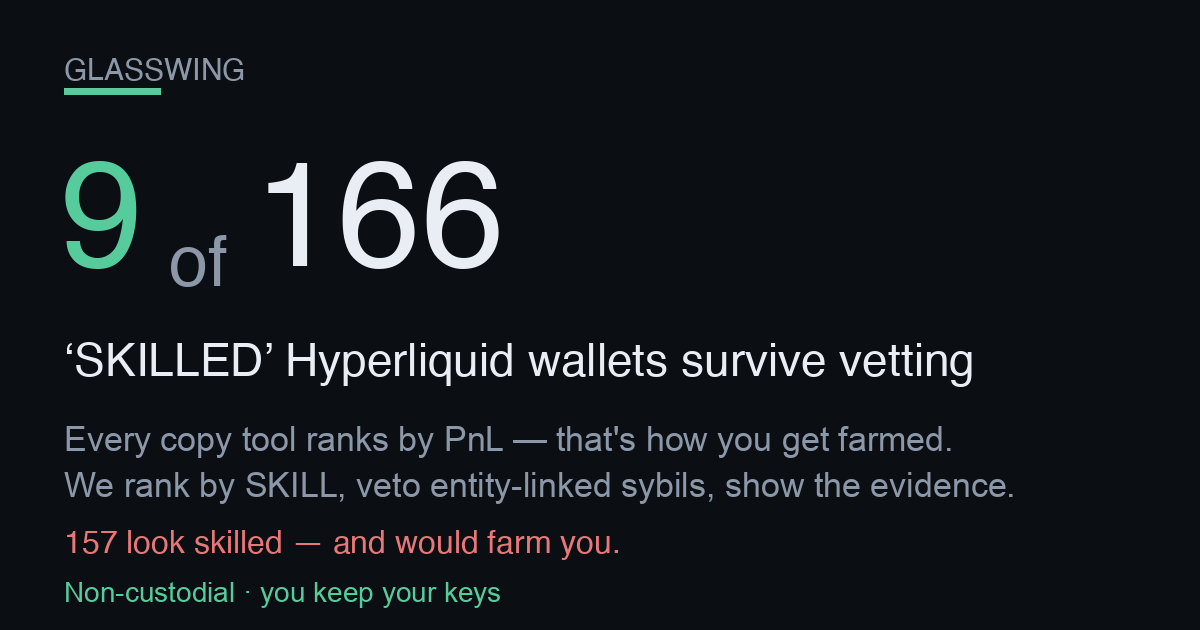
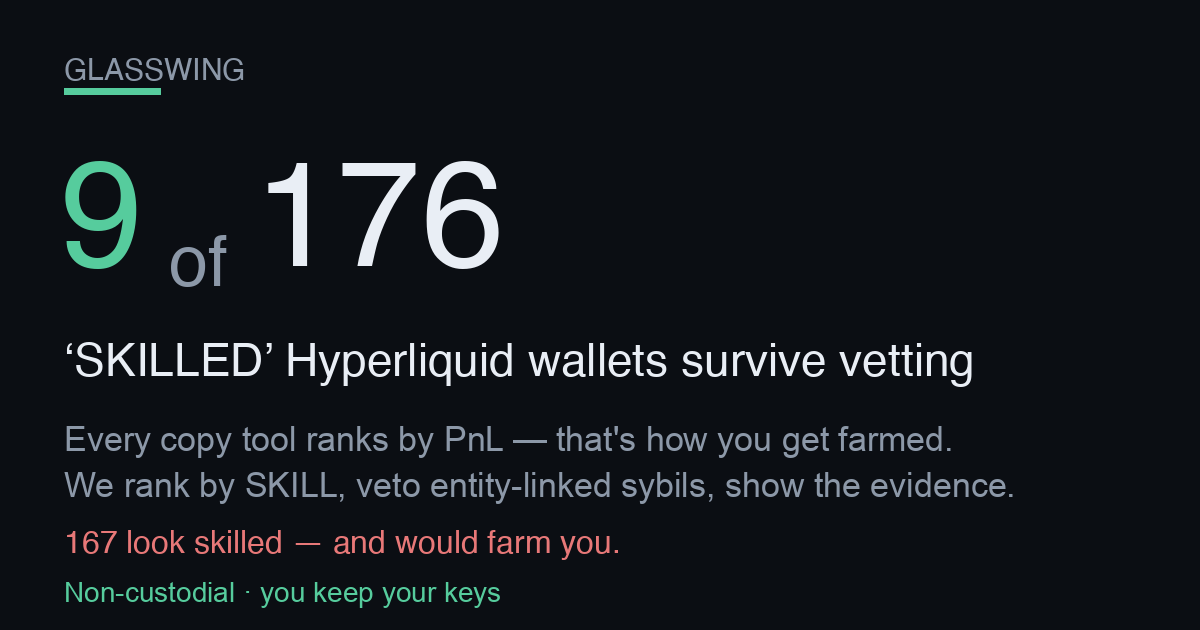
publish funnel 2026-08-07T13:32:22Z

Changed region(s): [[0.2775, 0.2413, 0.37, 0.4222], [0.0617, 0.8444, 0.0925, 0.8746]]

diff --git a/screener.html b/screener.html
@@ -57,4 +57,4 @@ padding:11px 22px;font-size:15px;font-weight:800;border:1px solid var(--good)}
 footer{margin-top:34px;color:var(--muted);font-size:12px;line-height:1.6;
 border-top:1px solid var(--line);padding-top:16px}
 footer b{color:var(--ink)}
-</style></head><body><div class="wrap"><div class="nav"><a href="./index.html">&larr; Glasswing home</a><span class="sep">|</span><span>Edge Screener</span><span class="sep">|</span><a href="./dex.html">Copy a vetted leader</a></div><div class="hero"><h1>Hyperliquid Edge Screener</h1><div class="sub">Where&rsquo;s the carry, where a maker earns, and what&rsquo;s moving on Hyperliquid &mdash; live, computed from the public API. Bookmark it. Every number below is real and timestamped.</div><div class="stamp">Data as of <b>2026-08-06T19:14:27Z</b> &middot; rendered 2026-08-06T19:14:27Z &middot; 177 perps &middot; 94 HIP-3 (xyz) markets scanned</div></div><h2>Top funding &mdash; the carry table <span class="hint">perps ranked by annualized funding. Positive = longs pay shorts (a delta-neutral short earns it).</span></h2><div class="tblwrap"><table><thead><tr><th>Coin</th><th>Funding / hr</th><th>Annualized</th><th>Who pays</th><th>Open interest</th><th>24h volume</th></tr></thead><tbody><tr><td class="coin">ACE</td><td>-0.2594%</td><td class="neg">-2272.2%</td><td><span class="tag shorts">shorts pay</span></td><td>$979K</td><td>$5.7M</td></tr><tr><td class="coin">CASHCAT</td><td>+0.0078%</td><td class="pos">+68.2%</td><td><span class="tag longs">longs pay</span></td><td>$14.4M</td><td>$97.3M</td></tr><tr><td class="coin">MOVE<span class="tag thin" title="Low liquidity/OI &mdash; ADL &amp; liquidation risk; funding can flip">&#9888; thin</span></td><td>-0.0076%</td><td class="neg">-66.9%</td><td><span class="tag shorts">shorts pay</span></td><td>$641K</td><td>$203K</td></tr><tr><td class="coin">NOT<span class="tag thin" title="Low liquidity/OI &mdash; ADL &amp; liquidation risk; funding can flip">&#9888; thin</span></td><td>-0.0076%</td><td class="neg">-66.4%</td><td><span class="tag shorts">shorts pay</span></td><td>$225K</td><td>$17K</td></tr><tr><td class="coin">XMR</td><td>-0.0059%</td><td class="neg">-51.7%</td><td><span class="tag shorts">shorts pay</span></td><td>$31.3M</td><td>$4.4M</td></tr><tr><td class="coin">ALT<span class="tag thin" title="Low liquidity/OI &mdash; ADL &amp; liquidation risk; funding can flip">&#9888; thin</span></td><td>-0.0051%</td><td class="neg">-44.7%</td><td><span class="tag shorts">shorts pay</span></td><td>$583K</td><td>$104K</td></tr><tr><td class="coin">SUPER<span class="tag thin" title="Low liquidity/OI &mdash; ADL &amp; liquidation risk; funding can flip">&#9888; thin</span></td><td>-0.0049%</td><td class="neg">-42.8%</td><td><span class="tag shorts">shorts pay</span></td><td>$328K</td><td>$180K</td></tr><tr><td class="coin">kNEIRO<span class="tag thin" title="Low liquidity/OI &mdash; ADL &amp; liquidation risk; funding can flip">&#9888; thin</span></td><td>-0.0037%</td><td class="neg">-32.1%</td><td><span class="tag shorts">shorts pay</span></td><td>$208K</td><td>$371K</td></tr><tr><td class="coin">ZRO</td><td>+0.0035%</td><td class="pos">+30.6%</td><td><span class="tag longs">longs pay</span></td><td>$24.7M</td><td>$1.9M</td></tr><tr><td class="coin">TRX</td><td>-0.0035%</td><td class="neg">-30.3%</td><td><span class="tag shorts">shorts pay</span></td><td>$13.4M</td><td>$682K</td></tr><tr><td class="coin">WLD</td><td>-0.0033%</td><td class="neg">-28.8%</td><td><span class="tag shorts">shorts pay</span></td><td>$23.2M</td><td>$9.1M</td></tr><tr><td class="coin">MNT</td><td>+0.0029%</td><td class="pos">+25.1%</td><td><span class="tag longs">longs pay</span></td><td>$1.6M</td><td>$358K</td></tr></tbody></table></div><h2>Widest HIP-3 spreads &mdash; where a maker earns <span class="hint">xyz: markets by impact-price spread vs the ~0.6bps round-trip fee. A resting limit order captures the gap.</span></h2><div class="tblwrap"><table><thead><tr><th>Market</th><th>Spread</th><th>vs 0.6bps fee</th><th>Mid</th><th>24h volume</th></tr></thead><tbody><tr><td class="coin">xyz:NCLD<span class="tag gm">growth</span></td><td>1297.4 bps</td><td class="pos">+1296.8 bps</td><td>22.6360</td><td>$7K</td></tr><tr><td class="coin">xyz:BIRD<span class="tag gm">growth</span></td><td>356.2 bps</td><td class="pos">+355.6 bps</td><td>2.3535</td><td>$192K</td></tr><tr><td class="coin">xyz:SOXL<span class="tag gm">growth</span></td><td>309.8 bps</td><td class="pos">+309.2 bps</td><td>137.2750</td><td>$6K</td></tr><tr><td class="coin">xyz:GIGADEV<span class="tag gm">growth</span></td><td>203.3 bps</td><td class="pos">+202.7 bps</td><td>57.7910</td><td>$947K</td></tr><tr><td class="coin">xyz:UNITREE<span class="tag gm">growth</span></td><td>200.9 bps</td><td class="pos">+200.3 bps</td><td>81.7075</td><td>$7.1M</td></tr><tr><td class="coin">xyz:SOFTBANK<span class="tag gm">growth</span></td><td>161.7 bps</td><td class="pos">+161.1 bps</td><td>35.7710</td><td>$389K</td></tr><tr><td class="coin">xyz:GEV<span class="tag gm">growth</span></td><td>86.3 bps</td><td class="pos">+85.7 bps</td><td>1,007.05</td><td>$23K</td></tr><tr><td class="coin">xyz:LYTE<span class="tag gm">growth</span></td><td>74.2 bps</td><td class="pos">+73.6 bps</td><td>25.5610</td><td>$515K</td></tr><tr><td class="coin">xyz:BOT<span class="tag gm">growth</span></td><td>56.4 bps</td><td class="pos">+55.8 bps</td><td>28.1955</td><td>$633K</td></tr><tr><td class="coin">xyz:KIOXIA<span class="tag gm">growth</span></td><td>46.6 bps</td><td class="pos">+46.0 bps</td><td>316.5600</td><td>$14.0M</td></tr><tr><td class="coin">xyz:ZHIPU<span class="tag gm">growth</span></td><td>40.0 bps</td><td class="pos">+39.4 bps</td><td>134.6000</td><td>$4.9M</td></tr><tr><td class="coin">xyz:SHAZ<span class="tag gm">growth</span></td><td>38.4 bps</td><td class="pos">+37.8 bps</td><td>52.7640</td><td>$1.9M</td></tr></tbody></table></div><h2>Momentum &amp; volume &mdash; what&rsquo;s moving <span class="hint">perps by 24h volume with the 24h price change (mark vs prior-day).</span></h2><div class="tblwrap"><table><thead><tr><th>Coin</th><th>24h volume</th><th>24h change</th><th>Mark</th></tr></thead><tbody><tr><td class="coin">BTC</td><td>$1.28B</td><td class="neg">-0.68%</td><td>64,421.00</td></tr><tr><td class="coin">ETH</td><td>$737.6M</td><td class="neg">-0.49%</td><td>1,908.30</td></tr><tr><td class="coin">HYPE</td><td>$245.6M</td><td class="neg">-1.85%</td><td>56.2660</td></tr><tr><td class="coin">SOL</td><td>$99.1M</td><td class="neg">-2.32%</td><td>72.7800</td></tr><tr><td class="coin">CASHCAT</td><td>$97.3M</td><td class="pos">+6.43%</td><td>0.10346</td></tr><tr><td class="coin">ZEC</td><td>$57.6M</td><td class="neg">-4.77%</td><td>496.6800</td></tr><tr><td class="coin">PUMP</td><td>$35.1M</td><td class="neg">-1.85%</td><td>0.002381</td></tr><tr><td class="coin">XRP</td><td>$26.5M</td><td class="neg">-3.23%</td><td>1.0345</td></tr><tr><td class="coin">UNI</td><td>$15.2M</td><td class="neg">-2.65%</td><td>4.0194</td></tr><tr><td class="coin">ADA</td><td>$13.1M</td><td class="pos">+7.28%</td><td>0.20414</td></tr><tr><td class="coin">LIT</td><td>$12.4M</td><td class="pos">+7.40%</td><td>2.2802</td></tr><tr><td class="coin">WLD</td><td>$9.1M</td><td class="neg">-5.27%</td><td>0.30155</td></tr></tbody></table></div><div class="cta"><h2>These are the opportunities. Now copy the people who trade them.</h2><p class="lead">Spotting the carry and the spreads is the easy part &mdash; sizing, timing and risk are where most traders bleed. Copy the <b>skill-vetted</b> Hyperliquid leaders who actually trade these edges. Non-custodial: <b>you keep your keys and your funds</b> the entire time.</p><div class="row"><a class="btn" href="./index.html">See the vetted leaders &rarr;</a><a class="btn ghost" href="./dex.html">Start copying (non-custodial) &rarr;</a></div><div class="nc"><b>Non-custodial &amp; honest:</b> we never hold your keys or funds. Copying routes through a <b>0.01%</b> (1bp) on-chain builder fee &mdash; that is the only thing we ever charge, and it is the same fee shown on the copy page. Nothing on this screener is executed for you; it is information only.</div></div><footer><b>Not financial advice.</b> Funding rates, spreads and volumes are live snapshots that change every block; figures can be stale by the time you act. A high funding rate is <b>not free money</b> &mdash; the biggest rates sit on the thinnest, most crowded books (flagged &#9888; thin), where funding can flip against you and auto-deleveraging (ADL) or liquidation can close your position. &ldquo;Spread&rdquo; here is the impact-price spread (a conservative maker signal), not a guaranteed fill. HIP-3 markets are experimental. Do your own research and size responsibly. Glasswing is <b>non-custodial</b> &mdash; we never take custody of your keys or funds.</footer></div></body></html>
+</style></head><body><div class="wrap"><div class="nav"><a href="./index.html">&larr; Glasswing home</a><span class="sep">|</span><span>Edge Screener</span><span class="sep">|</span><a href="./dex.html">Copy a vetted leader</a></div><div class="hero"><h1>Hyperliquid Edge Screener</h1><div class="sub">Where&rsquo;s the carry, where a maker earns, and what&rsquo;s moving on Hyperliquid &mdash; live, computed from the public API. Bookmark it. Every number below is real and timestamped.</div><div class="stamp">Data as of <b>2026-08-07T13:29:01Z</b> &middot; rendered 2026-08-07T13:29:01Z &middot; 177 perps &middot; 94 HIP-3 (xyz) markets scanned</div></div><h2>Top funding &mdash; the carry table <span class="hint">perps ranked by annualized funding. Positive = longs pay shorts (a delta-neutral short earns it).</span></h2><div class="tblwrap"><table><thead><tr><th>Coin</th><th>Funding / hr</th><th>Annualized</th><th>Who pays</th><th>Open interest</th><th>24h volume</th></tr></thead><tbody><tr><td class="coin">ACE</td><td>-0.3259%</td><td class="neg">-2854.7%</td><td><span class="tag shorts">shorts pay</span></td><td>$1.6M</td><td>$15.6M</td></tr><tr><td class="coin">MOVE</td><td>-0.0098%</td><td class="neg">-85.5%</td><td><span class="tag shorts">shorts pay</span></td><td>$598K</td><td>$334K</td></tr><tr><td class="coin">HYPER<span class="tag thin" title="Low liquidity/OI &mdash; ADL &amp; liquidation risk; funding can flip">&#9888; thin</span></td><td>-0.0092%</td><td class="neg">-80.2%</td><td><span class="tag shorts">shorts pay</span></td><td>$317K</td><td>$276K</td></tr><tr><td class="coin">kBONK</td><td>-0.0092%</td><td class="neg">-80.1%</td><td><span class="tag shorts">shorts pay</span></td><td>$4.5M</td><td>$4.4M</td></tr><tr><td class="coin">CC</td><td>-0.0081%</td><td class="neg">-70.7%</td><td><span class="tag shorts">shorts pay</span></td><td>$2.4M</td><td>$2.4M</td></tr><tr><td class="coin">JUP</td><td>-0.0077%</td><td class="neg">-67.4%</td><td><span class="tag shorts">shorts pay</span></td><td>$6.4M</td><td>$1.1M</td></tr><tr><td class="coin">XAI<span class="tag thin" title="Low liquidity/OI &mdash; ADL &amp; liquidation risk; funding can flip">&#9888; thin</span></td><td>-0.0072%</td><td class="neg">-62.7%</td><td><span class="tag shorts">shorts pay</span></td><td>$393K</td><td>$1.2M</td></tr><tr><td class="coin">STABLE<span class="tag thin" title="Low liquidity/OI &mdash; ADL &amp; liquidation risk; funding can flip">&#9888; thin</span></td><td>-0.0070%</td><td class="neg">-61.1%</td><td><span class="tag shorts">shorts pay</span></td><td>$1.9M</td><td>$206K</td></tr><tr><td class="coin">ALT<span class="tag thin" title="Low liquidity/OI &mdash; ADL &amp; liquidation risk; funding can flip">&#9888; thin</span></td><td>-0.0068%</td><td class="neg">-59.7%</td><td><span class="tag shorts">shorts pay</span></td><td>$583K</td><td>$73K</td></tr><tr><td class="coin">AVNT</td><td>-0.0058%</td><td class="neg">-50.4%</td><td><span class="tag shorts">shorts pay</span></td><td>$687K</td><td>$266K</td></tr><tr><td class="coin">MNT</td><td>+0.0046%</td><td class="pos">+40.6%</td><td><span class="tag longs">longs pay</span></td><td>$1.6M</td><td>$392K</td></tr><tr><td class="coin">kNEIRO<span class="tag thin" title="Low liquidity/OI &mdash; ADL &amp; liquidation risk; funding can flip">&#9888; thin</span></td><td>-0.0043%</td><td class="neg">-38.1%</td><td><span class="tag shorts">shorts pay</span></td><td>$209K</td><td>$275K</td></tr></tbody></table></div><h2>Widest HIP-3 spreads &mdash; where a maker earns <span class="hint">xyz: markets by impact-price spread vs the ~0.6bps round-trip fee. A resting limit order captures the gap.</span></h2><div class="tblwrap"><table><thead><tr><th>Market</th><th>Spread</th><th>vs 0.6bps fee</th><th>Mid</th><th>24h volume</th></tr></thead><tbody><tr><td class="coin">xyz:BIRD<span class="tag gm">growth</span></td><td>364.0 bps</td><td class="pos">+363.4 bps</td><td>2.4035</td><td>$264K</td></tr><tr><td class="coin">xyz:SOFTBANK<span class="tag gm">growth</span></td><td>239.7 bps</td><td class="pos">+239.1 bps</td><td>35.9480</td><td>$320K</td></tr><tr><td class="coin">xyz:GIGADEV<span class="tag gm">growth</span></td><td>135.6 bps</td><td class="pos">+135.0 bps</td><td>61.3490</td><td>$427K</td></tr><tr><td class="coin">xyz:SHAZ<span class="tag gm">growth</span></td><td>115.2 bps</td><td class="pos">+114.6 bps</td><td>54.5630</td><td>$1.6M</td></tr><tr><td class="coin">xyz:NCLD<span class="tag gm">growth</span></td><td>110.7 bps</td><td class="pos">+110.1 bps</td><td>23.3765</td><td>$348K</td></tr><tr><td class="coin">xyz:BOT<span class="tag gm">growth</span></td><td>107.0 bps</td><td class="pos">+106.4 bps</td><td>28.7375</td><td>$743K</td></tr><tr><td class="coin">xyz:GEV<span class="tag gm">growth</span></td><td>94.4 bps</td><td class="pos">+93.8 bps</td><td>1,022.95</td><td>$17K</td></tr><tr><td class="coin">xyz:LYTE<span class="tag gm">growth</span></td><td>75.0 bps</td><td class="pos">+74.4 bps</td><td>26.2580</td><td>$1.2M</td></tr><tr><td class="coin">xyz:ZM<span class="tag gm">growth</span></td><td>72.4 bps</td><td class="pos">+71.8 bps</td><td>102.7250</td><td>$166K</td></tr><tr><td class="coin">xyz:PURRDAT</td><td>69.1 bps</td><td class="pos">+68.5 bps</td><td>6.8587</td><td>$2.1M</td></tr><tr><td class="coin">xyz:QNT<span class="tag gm">growth</span></td><td>61.0 bps</td><td class="pos">+60.4 bps</td><td>59.6060</td><td>$488K</td></tr><tr><td class="coin">xyz:DKNG<span class="tag gm">growth</span></td><td>55.3 bps</td><td class="pos">+54.7 bps</td><td>22.9340</td><td>$1.2M</td></tr></tbody></table></div><h2>Momentum &amp; volume &mdash; what&rsquo;s moving <span class="hint">perps by 24h volume with the 24h price change (mark vs prior-day).</span></h2><div class="tblwrap"><table><thead><tr><th>Coin</th><th>24h volume</th><th>24h change</th><th>Mark</th></tr></thead><tbody><tr><td class="coin">BTC</td><td>$1.32B</td><td class="pos">+1.34%</td><td>65,079.00</td></tr><tr><td class="coin">ETH</td><td>$1.01B</td><td class="pos">+1.50%</td><td>1,925.19</td></tr><tr><td class="coin">HYPE</td><td>$229.4M</td><td class="pos">+3.40%</td><td>56.6201</td></tr><tr><td class="coin">SOL</td><td>$97.0M</td><td class="pos">+1.19%</td><td>73.7950</td></tr><tr><td class="coin">CASHCAT</td><td>$52.0M</td><td class="neg">-29.43%</td><td>0.107713</td></tr><tr><td class="coin">ZEC</td><td>$46.0M</td><td class="pos">+4.08%</td><td>510.7600</td></tr><tr><td class="coin">XRP</td><td>$32.6M</td><td class="neg">-0.59%</td><td>1.0374</td></tr><tr><td class="coin">PUMP</td><td>$28.1M</td><td class="neg">-0.38%</td><td>0.002329</td></tr><tr><td class="coin">LIT</td><td>$20.5M</td><td class="pos">+10.57%</td><td>2.4264</td></tr><tr><td class="coin">ADA</td><td>$15.9M</td><td class="pos">+4.71%</td><td>0.20061</td></tr><tr><td class="coin">ACE</td><td>$15.6M</td><td class="pos">+59.44%</td><td>0.1258</td></tr><tr><td class="coin">ONDO</td><td>$11.9M</td><td class="neg">-3.72%</td><td>0.35264</td></tr></tbody></table></div><div class="cta"><h2>These are the opportunities. Now copy the people who trade them.</h2><p class="lead">Spotting the carry and the spreads is the easy part &mdash; sizing, timing and risk are where most traders bleed. Copy the <b>skill-vetted</b> Hyperliquid leaders who actually trade these edges. Non-custodial: <b>you keep your keys and your funds</b> the entire time.</p><div class="row"><a class="btn" href="./index.html">See the vetted leaders &rarr;</a><a class="btn ghost" href="./dex.html">Start copying (non-custodial) &rarr;</a></div><div class="nc"><b>Non-custodial &amp; honest:</b> we never hold your keys or funds. Copying routes through a <b>0.01%</b> (1bp) on-chain builder fee &mdash; that is the only thing we ever charge, and it is the same fee shown on the copy page. Nothing on this screener is executed for you; it is information only.</div></div><footer><b>Not financial advice.</b> Funding rates, spreads and volumes are live snapshots that change every block; figures can be stale by the time you act. A high funding rate is <b>not free money</b> &mdash; the biggest rates sit on the thinnest, most crowded books (flagged &#9888; thin), where funding can flip against you and auto-deleveraging (ADL) or liquidation can close your position. &ldquo;Spread&rdquo; here is the impact-price spread (a conservative maker signal), not a guaranteed fill. HIP-3 markets are experimental. Do your own research and size responsibly. Glasswing is <b>non-custodial</b> &mdash; we never take custody of your keys or funds.</footer></div></body></html>

diff --git a/track.html b/track.html
@@ -62,7 +62,7 @@ font-weight:600;font-size:14px}
 <div class="wrap">
   <div class="hero">
     <h1>Self-verifying on-chain track record</h1>
-    <div class="big">$302.49</div>
+    <div class="big">$286.67</div>
     <div class="sub">current on-chain equity (perp + vault + spot USDC)</div>
     <div class="addr">0xbe6C1b09662BbE52CC93279D103Feb27985DdBc1</div>
     <div class="stage early">19 days live — EARLY / NOT YET A MATURE RECORD</div>
@@ -72,25 +72,25 @@ font-weight:600;font-size:14px}
 
   <h2>On-chain figures <span style="color:var(--muted);font-weight:400;font-size:13px">
   &mdash; every one reproducible from the public info API</span></h2>
-  <table><tbody><tr><td class="k">On-chain equity (perp + vault + spot USDC)</td><td class="v">$302.49</td></tr><tr><td class="k">Perp account value</td><td class="v">$251.50</td></tr><tr><td class="k">Vault equity</td><td class="v">$50.44</td></tr><tr><td class="k">Spot USDC</td><td class="v">$0.55</td></tr><tr><td class="k">Withdrawable</td><td class="v">$158.21</td></tr></tbody></table>
+  <table><tbody><tr><td class="k">On-chain equity (perp + vault + spot USDC)</td><td class="v">$286.67</td></tr><tr><td class="k">Perp account value</td><td class="v">$235.62</td></tr><tr><td class="k">Vault equity</td><td class="v">$50.51</td></tr><tr><td class="k">Spot USDC</td><td class="v">$0.55</td></tr><tr><td class="k">Withdrawable</td><td class="v">$210.16</td></tr></tbody></table>
 
-  <h2>Vault deposits (on-chain)</h2><table><thead><tr><th>Vault address</th><th>Our equity</th></tr></thead><tbody><tr><td class="mono">0x2431edfcb662e6ff6deab113cc91878a0b53fb0f</td><td class="v">$0.01</td></tr><tr><td class="mono">0x697bc3dd77539fa84156d0e1c95287ea5524fd6b</td><td class="v">$26.05</td></tr><tr><td class="mono">0x8825e6ed11c7f9c0874579c9f4bba192b9e81c8f</td><td class="v">$0.12</td></tr><tr><td class="mono">0xc71f5a493b937e4b1798b86510630336a6dfd804</td><td class="v">$24.27</td></tr></tbody></table>
+  <h2>Vault deposits (on-chain)</h2><table><thead><tr><th>Vault address</th><th>Our equity</th></tr></thead><tbody><tr><td class="mono">0x2431edfcb662e6ff6deab113cc91878a0b53fb0f</td><td class="v">$0.01</td></tr><tr><td class="mono">0x697bc3dd77539fa84156d0e1c95287ea5524fd6b</td><td class="v">$25.97</td></tr><tr><td class="mono">0x8825e6ed11c7f9c0874579c9f4bba192b9e81c8f</td><td class="v">$0.12</td></tr><tr><td class="mono">0xc71f5a493b937e4b1798b86510630336a6dfd804</td><td class="v">$24.42</td></tr></tbody></table>
 
   <h2>Performance <span style="color:var(--muted);font-weight:400;font-size:13px">
   &mdash; honest stage, no annualization</span></h2>
-  <table><tbody><tr><td class="k">Days live (our formal record)</td><td class="v">19</td></tr><tr><td class="k">Maturity</td><td class="v">EARLY / NOT YET A MATURE RECORD</td></tr><tr><td class="k">Current real strategy income / day</td><td class="v">$-0.1332</td></tr><tr><td class="k">Cumulative net income (if attributed)</td><td class="v">$-0.2284</td></tr><tr><td class="k">Annualized APR</td><td class="v">intentionally NOT computed (record too young)</td></tr></tbody></table>
+  <table><tbody><tr><td class="k">Days live (our formal record)</td><td class="v">19</td></tr><tr><td class="k">Maturity</td><td class="v">EARLY / NOT YET A MATURE RECORD</td></tr><tr><td class="k">Current real strategy income / day</td><td class="v">$-0.2090</td></tr><tr><td class="k">Cumulative net income (if attributed)</td><td class="v">$-0.7531</td></tr><tr><td class="k">Annualized APR</td><td class="v">intentionally NOT computed (record too young)</td></tr></tbody></table>
 
   <h2>Strategy arms <span style="color:var(--muted);font-weight:400;font-size:13px">
   &mdash; internal marks, cross-checkable against chain equity</span></h2>
-  <table><thead><tr><th>Arm</th><th>Status</th><th>Real / day</th><th>Note</th></tr></thead><tbody><tr><td class="v">carry</td><td><span class="badge off">—</span></td><td class="v">$-0.1332</td><td class="k"></td></tr><tr><td class="v">copy</td><td><span class="badge live">live</span></td><td class="v">$0.0000</td><td class="k"></td></tr><tr><td class="v">builder</td><td><span class="badge off">—</span></td><td class="v">$0.0000</td><td class="k">proven live; $0 until distributed (∝ users&#x27; volume)</td></tr></tbody></table>
+  <table><thead><tr><th>Arm</th><th>Status</th><th>Real / day</th><th>Note</th></tr></thead><tbody><tr><td class="v">carry</td><td><span class="badge off">—</span></td><td class="v">$-0.2090</td><td class="k"></td></tr><tr><td class="v">copy</td><td><span class="badge live">live</span></td><td class="v">$0.0000</td><td class="k"></td></tr><tr><td class="v">builder</td><td><span class="badge off">—</span></td><td class="v">$0.0000</td><td class="k">proven live; $0 until distributed (∝ users&#x27; volume)</td></tr></tbody></table>
 
   <h2>Reproduce it</h2>
   <div class="verify"><h3>Verify this yourself</h3><p>These are PUBLIC calls. Run them yourself against the address below and you will re-derive every on-chain figure on this page. equity_usd = perp accountValue + vault equity + spot USDC. Endpoint: https://api.hyperliquid.xyz/info</p><div class="cn">clearinghouseState &rarr; marginSummary.accountValue (perp value), withdrawable, marginSummary.totalMarginUsed</div><pre>curl -s -X POST https://api.hyperliquid.xyz/info -H &#x27;Content-Type: application/json&#x27; -d &#x27;{&quot;type&quot;: &quot;clearinghouseState&quot;, &quot;user&quot;: &quot;0xbe6C1b09662BbE52CC93279D103Feb27985DdBc1&quot;}&#x27;</pre><div class="cn">userVaultEquities &rarr; sum of each entry&#x27;s equity (our vault deposits)</div><pre>curl -s -X POST https://api.hyperliquid.xyz/info -H &#x27;Content-Type: application/json&#x27; -d &#x27;{&quot;type&quot;: &quot;userVaultEquities&quot;, &quot;user&quot;: &quot;0xbe6C1b09662BbE52CC93279D103Feb27985DdBc1&quot;}&#x27;</pre><div class="cn">spotClearinghouseState &rarr; balances[] where coin==USDC -&gt; total (spot USDC)</div><pre>curl -s -X POST https://api.hyperliquid.xyz/info -H &#x27;Content-Type: application/json&#x27; -d &#x27;{&quot;type&quot;: &quot;spotClearinghouseState&quot;, &quot;user&quot;: &quot;0xbe6C1b09662BbE52CC93279D103Feb27985DdBc1&quot;}&#x27;</pre></div>
 
   <footer>
     <div>Self-verifying: every on-chain figure is reproducible by querying Hyperliquid&#x27;s public info API for the stated address. Internal daily marks are cross-checkable against on-chain equity. EARLY-STAGE record — not a mature track record, not an APR promise, not financial advice. Past performance != future results.</div>
-    <div class="stamp">Generated at 2026-08-06T19:13:49Z &middot; internal marks
-    mtime 2026-08-06T16:59:46Z &middot; static receipt, no live
+    <div class="stamp">Generated at 2026-08-07T13:26:11Z &middot; internal marks
+    mtime 2026-08-07T11:00:18Z &middot; static receipt, no live
     authority — this page never trades or arms.</div>
   </footer>
 </div>

diff --git a/index.html b/index.html
@@ -3,8 +3,8 @@
 <head>
 <meta charset="utf-8">
 <meta name="viewport" content="width=device-width, initial-scale=1">
-<title>9 of 166 SKILLED Hyperliquid wallets survive vetting</title>
-<meta name="description" content="9 of 166 leaderboard-SKILLED Hyperliquid wallets survive vetting. Copy only the survivors, non-custodial — you keep your keys and funds.">
+<title>9 of 176 SKILLED Hyperliquid wallets survive vetting</title>
+<meta name="description" content="9 of 176 leaderboard-SKILLED Hyperliquid wallets survive vetting. Copy only the survivors, non-custodial — you keep your keys and funds.">
 <link rel="canonical" href="https://dynobit.github.io/glasswing/">
 <meta name="robots" content="index,follow">
 <meta name="theme-color" content="#0b0e13">
@@ -14,14 +14,14 @@
      head, not this. og:url is the canonical Pages home so every share resolves here. -->
 <meta property="og:type" content="website">
 <meta property="og:site_name" content="Glasswing">
-<meta property="og:title" content="9 of 166 SKILLED Hyperliquid wallets survive vetting">
+<meta property="og:title" content="9 of 176 SKILLED Hyperliquid wallets survive vetting">
 <meta property="og:description" content="Every copy tool ranks leaders by PnL — which is how you get farmed. This ranks by SKILL, then vetoes entity-linked sybils, and shows the evidence for every reject. Non-custodial: you keep your keys.">
 <meta property="og:url" content="https://dynobit.github.io/glasswing/">
 <meta property="og:image" content="https://dynobit.github.io/glasswing/og-card.png">
 <meta property="og:image:width" content="1200">
 <meta property="og:image:height" content="630">
 <meta name="twitter:card" content="summary_large_image">
-<meta name="twitter:title" content="9 of 166 SKILLED Hyperliquid wallets survive vetting">
+<meta name="twitter:title" content="9 of 176 SKILLED Hyperliquid wallets survive vetting">
 <meta name="twitter:description" content="Skill-ranked (not PnL-ranked) HL copy-leaders, entity-linked sybils vetoed with evidence. Non-custodial.">
 <meta name="twitter:image" content="https://dynobit.github.io/glasswing/og-card.png">
 <style>
@@ -135,18 +135,18 @@ footer .nc{color:var(--good);font-weight:600}
 
   <!-- 1. HERO — the shareable hook (screenshot-worthy) -->
   <div class="hero">
-    <h1><span class="big">9 of 166</span> &lsquo;SKILLED&rsquo;
+    <h1><span class="big">9 of 176</span> &lsquo;SKILLED&rsquo;
     Hyperliquid wallets survive vetting</h1>
-    <div class="sub">The other <span class="trap">157</span> look skilled on a
+    <div class="sub">The other <span class="trap">167</span> look skilled on a
     raw copy leaderboard but would farm you &mdash; here are the
-    <span class="trap">157</span> that would. Entity-linked sybils,
-    wash-traded track records, or simply unscreened. 5.4% survive.
-    Universe: 1408 scored wallets.</div>
+    <span class="trap">167</span> that would. Entity-linked sybils,
+    wash-traded track records, or simply unscreened. 5.1% survive.
+    Universe: 1467 scored wallets.</div>
   </div>
 
   <!-- 2. THE WEDGE — the marketing (why us, not any other copy tool) -->
   <div class="wedge"><span class="them">Every other copy tool ranks all
-    166 by PnL and calls it a leaderboard.</span> We are the only one that
+    176 by PnL and calls it a leaderboard.</span> We are the only one that
     <b>flags the entity-linked and farming wallets with on-chain evidence</b> &mdash;
     transfer-graph linkage between wallets and arXiv memecoin farm-features &mdash;
     and shows you only the 9 that survive. A high PnL is exactly what a
@@ -268,7 +268,7 @@ footer .nc{color:var(--good);font-weight:600}
   <footer>
     <div class="nc">Non-custodial: we never hold your keys or funds. No server, no backend. Your browser talks only to Hyperliquid&#x27;s public API.</div>
     <div>Advisory. Skill = sign-randomization null vs luck. Entity veto = public transfer-graph linkage. Farm screen = arXiv:2601.08641 features (memecoin thresholds, HL-uncalibrated). Follower-realizable PnL is NOT yet proven — a PRE-COMMITTED forward test is in progress (0/2 windows, earliest 2026-08-13); the copyability claim publishes only when the pre-registered windows close, so it cannot be discovery-mined. Exit-alpha shown is advisory. Not financial advice.</div>
-    <div class="stamp">Generated at 2026-08-06T19:14:06Z &middot; single-file funnel,
+    <div class="stamp">Generated at 2026-08-07T13:27:08Z &middot; single-file funnel,
     no live authority. In-browser order signing is IMPLEMENTED (real secp256k1 +
     keccak + msgpack EIP-712 from a pinned CDN) but UNVALIDATED against Hyperliquid:
     mainnet is blocked until a testnet order is proven accepted.</div>

diff --git a/dex.html b/dex.html
@@ -112,8 +112,8 @@ footer .nc{color:var(--good);font-weight:600}
     funds and your keys the whole time. Two signatures in your own wallet, an
     ephemeral in-browser agent key that can trade but never withdraw, and a
     client-side loop that mirrors only the
-    <b>9 of 166</b> vetted survivors
-    (universe: 1408 scored wallets). No server, no backend.</div>
+    <b>9 of 176</b> vetted survivors
+    (universe: 1467 scored wallets). No server, no backend.</div>
     <div class="tag">static bundle &middot; IPFS-publishable &middot; revenue accrues on-chain</div>
   </div>
 
@@ -217,7 +217,7 @@ footer .nc{color:var(--good);font-weight:600}
   <footer>
     <div class="nc">Pure DEX, self-custodial. No server, no backend, no key we ever hold. Your browser talks only to Hyperliquid&#x27;s public API.</div>
     <div>Advisory. Skill = sign-randomization null vs luck. Entity veto = public transfer-graph linkage. Farm screen = arXiv:2601.08641 features (memecoin thresholds, HL-uncalibrated). Follower-realizable PnL is NOT yet proven — a PRE-COMMITTED forward test is in progress (0/2 windows, earliest 2026-08-13); the copyability claim publishes only when the pre-registered windows close, so it cannot be discovery-mined. Exit-alpha shown is advisory. Not financial advice.</div>
-    <div class="stamp">Generated at 2026-08-06T19:14:06Z &middot; static,
+    <div class="stamp">Generated at 2026-08-07T13:27:08Z &middot; static,
     self-custodial surface, no live authority. In-browser order signing is
     IMPLEMENTED (real secp256k1 + keccak + msgpack EIP-712 from a pinned CDN) but
     UNVALIDATED against Hyperliquid: mainnet is blocked until a testnet order is
